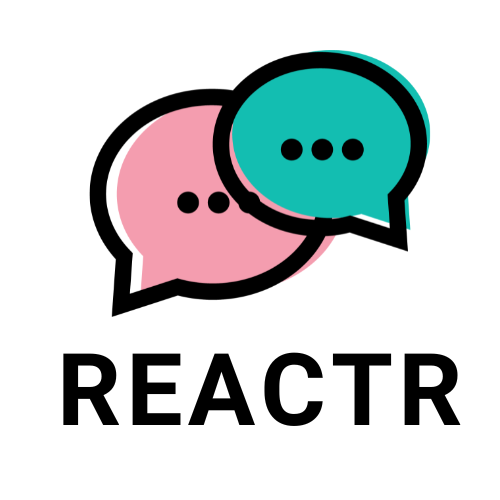
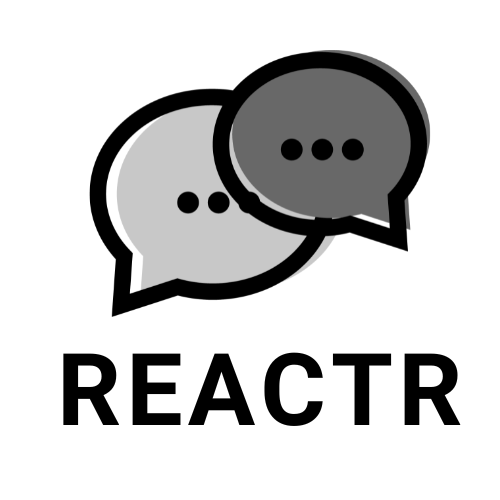
CSS changes on the homepage (consistent greyscale colour scheme)

diff --git a/socialmediasite/src/App.js b/socialmediasite/src/App.js
@@ -9,6 +9,7 @@ import toastr from "toastr";
 import "toastr/build/toastr.min.css";
 import NavDropdown from "react-bootstrap/NavDropdown";
 import Footer from "./components/footer";
+import Logo from "./imgs/Reactrbw.png";
 
 // cool image link https://picsum.photos/200/300
 
@@ -53,9 +54,11 @@ function App() {
         <Row>
           <Col md={6}>
             <div className="post-title-container">
-              <h1 className="title">Welcome to Reactr</h1>
+              <h1 className="title">
+                Reactr<span className="copyright"> ©</span>
+              </h1>
             </div>
-            <h2 className="">Add a post</h2>
+            <h2 className="margin-bottom subtitle">Add a post</h2>
             <PostForm handleSubmit={(userPost) => handleSubmit(userPost)} />
           </Col>
           <Col md={6} className="user-posts-home">
@@ -111,10 +114,10 @@ function App() {
   return (
     <div className="App">
       <HashRouter>
-        <Navbar bg="dark" variant="dark" className="mb-4" id="test">
+        <Navbar variant="dark" className="mb-4 custom-nav-bar" id="navpad">
           <Container fluid className="ml-1 mr-1">
-            <Navbar.Brand href="" className="mr-4 ml-3">
-              Reactr
+            <Navbar.Brand href="" className="mr-4 ml-3 logo">
+              <img src={Logo} alt="Reactr Logo" style={{ width: 50 }} />
             </Navbar.Brand>
             <Nav className="mr-auto">
               <Link to="/" className="nav-link">

diff --git a/socialmediasite/src/components/userInput.jsx b/socialmediasite/src/components/userInput.jsx
@@ -55,7 +55,7 @@ function PostForm({ handleSubmit }) {
           <Row>
             <Col>
               <Button
-                className="custom-btn"
+                className="custom-btn emoji"
                 style={{ margin: "0 10px 0 0" }}
                 onClick={togglePicker}
               >
@@ -64,10 +64,9 @@ function PostForm({ handleSubmit }) {
             </Col>
             <Col>
               <div className="post-button-container">
-                <Button
-                  className="custom-btn"
+                <button
+                  className="custom-btn cancel"
                   style={{ margin: "0 0 0 10px" }}
-                  variant="primary"
                   // Clear all input fields
                   onClick={() => {
                     setUsername("");
@@ -75,15 +74,14 @@ function PostForm({ handleSubmit }) {
                   }}
                 >
                   Cancel
-                </Button>
-                <Button
+                </button>
+                <button
                   className="custom-btn"
                   style={{ margin: "0 0 0 10px" }}
-                  variant="primary"
                   type="submit"
                 >
                   Post
-                </Button>
+                </button>
               </div>
             </Col>
           </Row>

diff --git a/socialmediasite/src/App.css b/socialmediasite/src/App.css
@@ -1,9 +1,43 @@
+:root {
+  --main-color: #343a40;
+  --main-color--light: #5e6872;
+  --main-color--dark: #202428;
+  --main-color--white: #dbdbdb;
+}
+
 .App,
 html,
 body {
-  background-color: rgb(219, 219, 219);
+  background-color: var(--main-color-white);
   font-family: "Roboto", sans-serif;
 }
+
+/* Nav Bar */
+
+#navpad {
+  padding: 0 6px !important;
+}
+
+#basic-nav-dropdown {
+  color: rgb(219, 219, 219) !important;
+}
+
+.custom-nav-bar {
+  background-color: var(--main-color);
+}
+
+.dropdown-toggle::after {
+  display: none;
+}
+
+/**/
+
+.copyright {
+  position: relative;
+  top: -16px;
+  font-size: 20px;
+}
+
 .user-posts-container {
   height: 89vh;
   overflow-y: auto;
@@ -18,7 +52,11 @@ body {
 .title {
   font-size: 3rem;
   font-weight: 700;
-  color: rgb(0, 0, 0);
+  color: var(--main-color);
+}
+
+.subtitle {
+  color: var(--main-color);
 }
 
 .dark {
@@ -33,17 +71,6 @@ body {
   border-left: 1px solid rgba(10, 10, 10, 0.4);
 }
 
-/* .dropdown {
-  width: 1000px;
-} */
-
-#basic-nav-dropdown {
-  color: rgb(219, 219, 219) !important;
-}
-
-.dropdown-toggle::after {
-  display: none;
-}
-#test {
-  padding: 0 6px !important;
+.margin-bottom {
+  margin-bottom: 40px;
 }

diff --git a/socialmediasite/src/components/userInput.css b/socialmediasite/src/components/userInput.css
@@ -18,11 +18,35 @@
   padding: 0;
   margin: 10px 0;
 }
+
 .custom-btn {
-  border-radius: 50px;
-  background-color: rgb(29, 29, 29);
+  color: white;
+  background-color: var(--main-color);
+  border-radius: 10px;
   border: none;
+  padding: 5px 8px;
+  font-size: 14px;
+  font-weight: 600;
+  transition: all 0.3s ease-in-out;
 }
+
+.custom-btn.emoji {
+  border-radius: 50%;
+}
+
+.custom-btn:hover {
+  background-color: var(--main-color--dark);
+  transform: scale(1.1);
+}
+
+.custom-btn.cancel {
+  background-color: var(--main-color--light);
+}
+
+.custom-btn.cancel:hover {
+  background-color: var(--main-color--dark);
+}
+
 .form-control {
   background-color: transparent;
   border: none;
